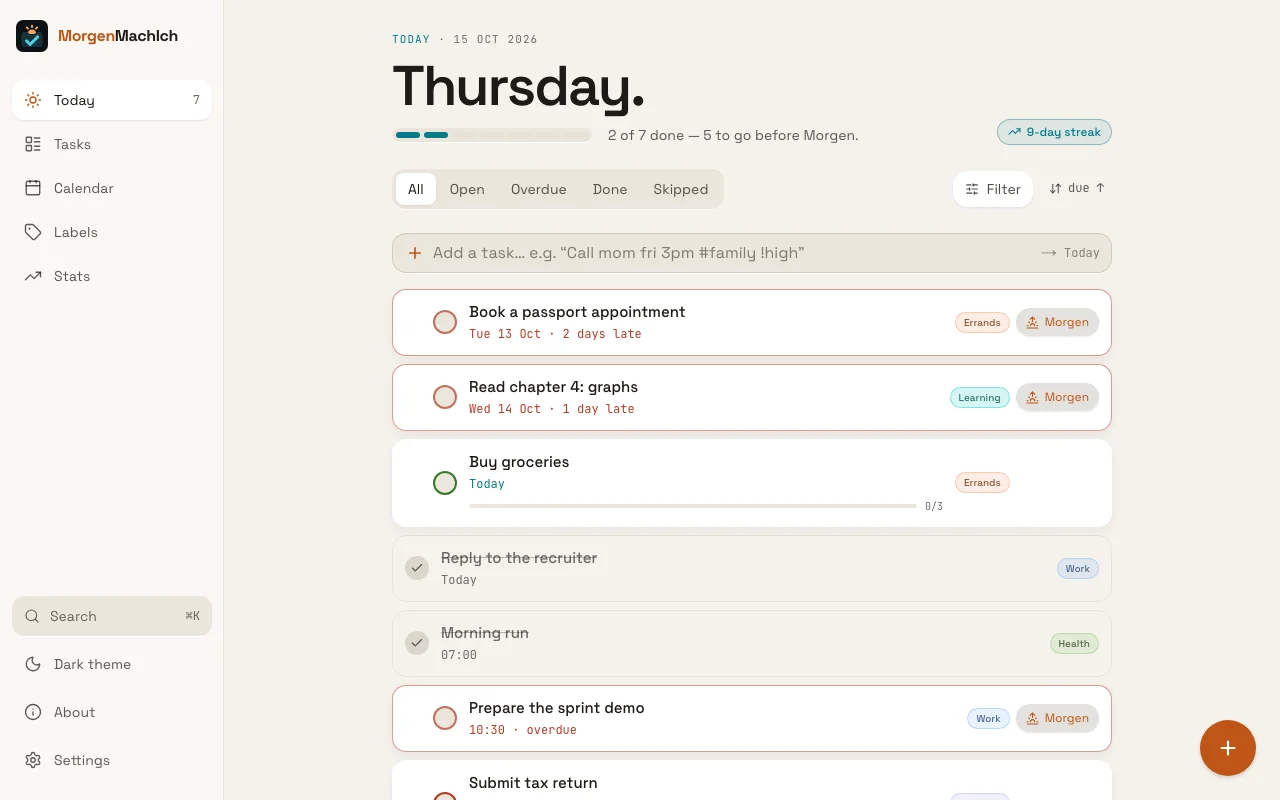
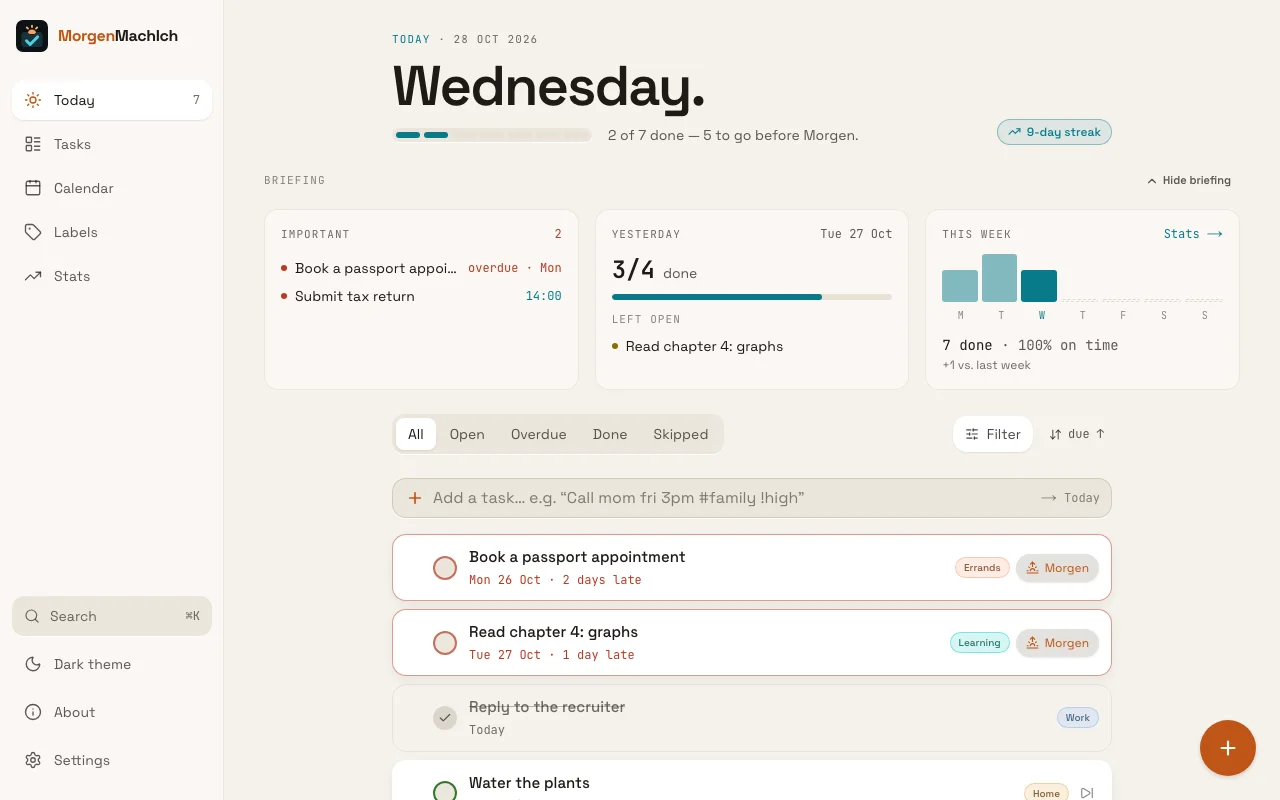
docs: sync PLANNING, README and site after Today Dashboard phase 1 (#443)
* docs: sync PLANNING and README after Today Dashboard phase 1

PLANNING: decision entries for the health check (#305), the Today
Dashboard phase 1 (#419) and projects as a future direction (#435);
backlog sections for both epics, #440 in the ideas, #305 marked done and
#311 / #314 sorted out. README: Today briefing in the status list, 850+
tests, updated in-progress and planned lines.

* chore(site): update stats and screenshots

Landing-page numbers: 23 epics, 270+ issues, 170+ pull requests, 850+
tests. Screenshots and the Open Graph image regenerated, so /today shows
the new briefing.

---------

diff --git a/features/site/lib/stats.ts b/features/site/lib/stats.ts
@@ -1,12 +1,12 @@
 /**
  * The numbers row of "How it's built" (#375). Update these at every docs
  * sync (see CONVENTIONS): rounded down with a "+", so they stay true
- * between updates. Last updated 2026-10-17 (after #308 and #396).
+ * between updates. Last updated 2026-10-28 (after the Today Dashboard phase 1, #419).
  */
 export const SITE_STATS: { value: string; label: string }[] = [
-  { value: "21", label: "epics" },
-  { value: "250+", label: "issues" },
-  { value: "160+", label: "pull requests" },
-  { value: "780+", label: "tests" },
+  { value: "23", label: "epics" },
+  { value: "270+", label: "issues" },
+  { value: "170+", label: "pull requests" },
+  { value: "850+", label: "tests" },
   { value: "4", label: "time zones in CI" },
 ];

diff --git a/docs/PLANNING.md b/docs/PLANNING.md
@@ -51,6 +51,9 @@
 - Hosted database — schema (#307, 2026-10-16; first migration `server/db/migrations/0000_init.sql`, applied to the Neon `dev` branch only): tables `labels`, `task_series`, `tasks`, `subtasks`, `task_labels`, `series_labels`, `app_settings` in schema `public`; Drizzle never touches `neon_auth`, but every owned row references `neon_auth.user(id) on delete cascade`, so deleting an account removes its data (#330). **Labels** as join tables (both FKs cascade) instead of an array column — the database keeps links valid and replaces the manual cleanup in `deleteLabel()`; the API still returns `labelIds`. **Subtasks** in their own table (`sort_order` fractional key) — 1:1 with today's feature; "subtasks as tasks" (`tasks.parent_id`, due dates, converting) is idea #400. A series' `subtask_template` and `recurrence` stay `jsonb` (copied/validated, never queried by column). Ids `uuid`; timestamps `timestamptz`; `occurrence_date date` with a **unique (`series_id`, `occurrence_date`)** index — a soft-deleted occurrence keeps its slot, so the server-side generator (#312) never recreates it (the per-occurrence delete deferred in #148). Soft delete (`deleted_at`) and `source` (`ui`/`n8n`/`claude`/`import`, set by the server) on labels, series and tasks; `sort_order text COLLATE "C"` (#75); `app_settings` is one row per user with `stats_since` and the user's IANA `time_zone`. **No drizzle-zod:** rows and API objects differ on purpose (join tables, nested subtasks, `Date` vs ISO strings, hidden columns), so `lib/types` stays the single source of truth for the API, backups and OpenAPI, and tested mappers in the service layer (#308) convert; `server/db/schema.test.ts` fails when a Zod field has no column.
 - Hosted database — service layer (done, #308 via #404 PR #409, #405 PR #410, #406 PR #411, #312 PR #413, #407 PR #414, #408 PR #415; tested against PGlite, no route uses it yet): `server/services/` is the server-side twin of `lib/db` — a route builds `services({ db, userId, source })` per request and gets the same function names and arguments, so the Route Handlers (#310) and the client migration (#311) don't need new shapes. **User scope:** every query filters by `userId`; ids in a request (labels on a task, a series) must belong to the same user (`ForbiddenError` 403), another user's record looks exactly like a missing one (`NotFoundError` 404); malformed ids are treated as missing (`isUuid`) and never reach Postgres. `userId` and `source` come from the session or API key, never from the body. **Validation:** inputs through the `lib/types` Zod schemas (`ValidationError` 422 with issue paths), rows mapped back (`mappers.ts`) and validated with `parseRows`, which skips invalid rows with a warning — the same rule as the Dexie layer. **Server-owned fields:** `id`, `createdAt`, `updatedAt`, `source` and a task's `completedAt` (set when it becomes done). **Soft delete** (`deleted_at`, so `updatedSince` can report deletions): it doesn't fire the database cascade, so services remove link rows themselves; `deleteAllData` is the one hard delete and keeps the settings row with the time zone. **Concurrency:** rules the schema can't express — label names unique per user (#405, via `normalizeLabelName`) and Backlog order keys (#406) — take a per-user **advisory lock** (`lockUserScope`) at the start of the transaction, so parallel requests queue instead of racing; everything that writes more than one table runs in `db.transaction`. **Occurrences on the server (#312):** the browser's `OccurrenceSync` would create duplicates against a shared database and Render runs in UTC, so generation moved to the server in the **user's time zone** (`AppSettings.timeZone`, IANA; pure `planOccurrences` in `lib/domain/occurrencePlan.ts`, `@date-fns/tz` only at the edges, "floating" local days so DST never shifts a date). It runs after series writes and lazily in `getTasks`, at most once per local day (`app_settings.occurrences_generated_on`). Inserts use `on conflict do nothing` on the unique `(series_id, occurrence_date)` — a deleted occurrence stays as a **tombstone** and is never recreated, which also fixes the old "deleting one occurrence doesn't stick" limitation (#148). **Series edits (#407)** regenerate **in place**: open today-or-later occurrences keep their id, subtasks/labels reset only when the template changed, dates the new rule drops are soft-deleted and tombstones on dates it contains again are restored. **Backup (#408):** export stays format v3; import replaces everything in one transaction and gives every row a **fresh uuid** (all references rewritten through one id map), so the public demo file with fixed ids works for any number of accounts; one occurrence per series and day survives. **Tests:** PGlite (Postgres compiled to WASM) per test file with the real migrations and a `neon_auth.user` stand-in; `server-only` is aliased to a stub in Vitest. 778 tests after the epic step.
 - Hosting in Frankfurt with a custom domain (done, #396, PR #416; plan in `claude/frankfurt-domain-plan.md`): the database runs in Neon Frankfurt, so a Render service in Oregon would add ~150 ms per query and send EU user data across the Atlantic (GDPR, #330). Render can't move a service between regions, so the URL had to change anyway — the app now has its own domain **`morgenmachich.de`** (registered at INWX), stable for future moves, the second brain (#300) and a possible product. **Render:** a new workspace "MorgenMachIch" (separate from the course projects, own 2 included custom domains) with the service `morgenmachich` in `region: frankfurt`, created from `render.yaml` as a Blueprint; Node raised to 22.23.3 (`engines` ≥ 22.22.2 for jsdom); `NEXT_PUBLIC_SITE_URL` and `CANONICAL_HOST` are `sync: false` dashboard values (the former is read at build time, so it had to exist before the first build); the Neon variables follow with #305. **DNS:** an **A record** for the root (an apex domain can't be a CNAME next to NS/SOA, and INWX has no ALIAS) and a CNAME `www` → the onrender address; Render issues TLS and redirects `www` → root. **One canonical host:** `proxy.ts` (Next 16's renamed middleware) sends every request on another host a **308** to the same path and query on `CANONICAL_HOST`; the host check is the pure `lib/utils/canonicalHost.ts` (`x-forwarded-host`, else `host`; case-insensitive; a malformed value disables the redirect instead of making browsers remember a wrong permanent redirect); no matcher, so static files redirect too; unset locally. The variable is set on both services, so the new onrender address and the old Oregon service (kept as a pure redirect for links on CV/LinkedIn, deleted around mid-November 2026) both lead to the domain. **Lessons:** the old service was managed by a Blueprint — renaming the service in `render.yaml` would have let that Blueprint act on it, so it was disconnected first (resources stay); and a `sync: false` variable only exists on services the Blueprint created, so the old service needed `CANONICAL_HOST` by hand. Local data is per origin, so it moved via export/import; the PWA was reinstalled. The privacy notice names Frankfurt (EU) as the server location.
+- Hosted database — health check (done, #305, PR #418): `GET /api/health` is pure liveness (version + commit, never touches the database) and is Render's `healthCheckPath`, so a database outage never restarts the app; `GET /api/health?db=1` runs `select 1` against Neon with a 5 s timeout and answers 200 or 503 — for curl, n8n and monitoring. Responses never contain error details (they go to the server log), and the route is exempt from the canonical-host redirect. Verified live 2026-10-17: the deployed server reaches Neon `production`.
+- Today Dashboard — phase 1 (done, epic #419: #421 PR #437, #422 PR #438, #423 PR #439, #424 PR #441, #425 PR #442; plan in `claude/dashboard-epic-plan.md`): /today becomes Niko's daily briefing, later also written by the agents of the second-brain system (Work Agent, Improvement Agent). **Layout:** one DOM order = the desktop order ("Skip to tasks" link → briefing band → task area), so Tab follows what you see on desktop; the band is a grid in its own `max-w-5xl` container (2 columns md, 3 lg, cards auto-placed so a missing widget leaves no gap); below md the band is `display: contents` and CSS `order` puts the task area right after Important. **Collapse** (desktop only): stored in localStorage `morgenmachich:briefing-collapsed` and on `<html data-briefing>`, applied by an inline head script before the first paint (like the theme) and read by a `briefing-collapsed` CSS variant — no React state, no flash; collapsed = one summary line ("2 important · yesterday 4/6"). The band is hidden while another Coming up day is selected. **Charts:** shared hand-built primitives in `components/ui/charts/` (`Sparkline`: stretched SVG with non-scaling strokes and an HTML dot that stays round; `MiniBars`: flex bars, dashed stub for future slots, optional labels) with pure math in `lib/charts/`; static, one accessible name each. **Widgets** (pure helpers in `features/dashboard/lib`, `now` passed in): _Important_ = open high-priority tasks due today or on an earlier day (earlier days first, "overdue · Tue"), items are a union so agent entries and calendar events plug in later, one line on mobile when empty; _Yesterday_ reuses `dayProgress` (done = status done, also when finished later, so it matches /tasks), lists up to three tasks left open (each opens the drawer); _This week_ builds on the /stats helpers with the stats start date applied — completions per day Mon–Sun, on-time rate over Monday until now, "+3 vs. last week" over the same span. No placeholders for phase 2 widgets in the live app.
+- Future direction — projects (idea, epic #435, plan issue #436, added 2026-10-27): group tasks into projects, each with its own backlog of tasks with subtasks. Not planned yet; open questions (project vs. label, shared vs. per-project backlog, pages and quick-add syntax, relation to #400) are in `claude/projects-epic-plan.md`. Suggested after the Hosted Database & API epic, so the schema changes once, on the server.
 - Future direction — automation & second brain (added after #168, updated 2026-10-12): the app becomes part of a "second brain" with Claude and Obsidian, and n8n agents automate around it. Both use the same `/api/v1` with machine API keys (read/write scopes, no delete for agent keys): n8n polls `updatedSince` and receives outgoing webhooks (task.completed / task.overdue); an MCP endpoint on top of the API serves Claude and n8n's AI agent node. The Obsidian/Claude workflow itself is still open. The rule stays: domain logic in pure functions (`lib/utils`), data formats versioned.
 - Future direction — feedback & admin (decided 2026-10-12, after Auth & Machine Access): **open sign-up** once login exists, with an admin (Niko) who can block and delete accounts. **Bug reports:** a "Report a bug" action stores the text plus automatic context (app version, page, browser, theme — never task content) in a `bug_reports` table; the admin area lists them with a status and can turn one into a GitHub issue with one click (the server holds the GitHub token; users never trigger GitHub directly). **Admin role:** checked in the Neon Auth spike (#306) — Better Auth's admin plugin (roles, list users, ban/unban, remove) if the managed version has it, otherwise an own `role` column and a ban check in `requireUser()`. The admin sees **non-sensitive data only** (email, sign-up date, last active, counts of tasks/series/labels) — no task titles, notes or labels. **Privacy (GDPR):** with other people's data the app needs an Impressum and a privacy policy, self-service export and account deletion (all rows, cascade), and data in an EU region — Neon region to be chosen in #304 (the Render service currently runs in Oregon; moving it to Frankfurt means a new service). Planned as the epic Feedback & Admin (backlog below).
 - Deployment & Ops — error pages (done, #177): `app/not-found.tsx` (terminal-style 404 with "Back to Today"), `app/error.tsx` (client boundary: friendly message, "Try again" via `reset`, "Go to Today", collapsed "Technical details" with message/digest, `console.error` in an effect) and `app/global-error.tsx` (fallback for root-layout failures; replaces the root layout, so it renders its own `<html>`/`<body>`, imports `globals.css`, and uses a plain `<a>` instead of `next/link` because a full page load is the safest exit when routing itself broke). All three share `StatusPage` (`components/ui/StatusPage.tsx`: large mono code in the accent color, title, one sentence, actions). `isStorageError()` (`lib/utils/isStorageError.ts`, pure) recognises Dexie/IndexedDB failures (`OpenFailedError`, `DatabaseClosedError`, `MissingAPIError`, `QuotaExceededError`, `SecurityError`, `InvalidStateError`, `VersionError`, or an "IndexedDB" mention in the message) so a blocked-storage case (e.g. a private window) gets a targeted hint instead of a generic message — the one runtime failure this local-first app can realistically hit.
@@ -269,6 +272,7 @@ Task CRUD, card-view list, calendar view, labels + filtering, priority levels, s
 
 ### Backlog ideas (planned, not scheduled)
 
+- Drawer keyboard support (Escape, focus into the drawer and back) and the on-time ring's track color in the light theme — open (#440, found while building the dashboard)
 - Custom date field so the drawer shows English date formats instead of the browser-language native picker — done (#258, PR #296); recurrence end date + Plan for… picker done (#294, PR #336)
 - Plan my day with time blocks ("9–12 Working", "12–12:30 Break", "12:30–13 Fitness") — idea issue created, design open (own entity vs. tasks with start/end, timeline on /today vs. calendar day view, quick-add syntax, templates) (#256; builds on the planned date, #332)
 - Planned date: when you'll work on a task, separate from its due date (Things 3's "When" vs. "Deadline") — idea (#332). Today "Plan for…" sets a due date, so a task you only intend to do on Friday is overdue on Saturday; with a planned date, /today and Coming up show planned tasks and the due date stays the deadline. Open: data model + backup version, carry-over of missed plans, quick-add syntax (planned vs. due), calendar and stats
@@ -331,10 +335,23 @@ Task CRUD, card-view list, calendar view, labels + filtering, priority levels, s
 - Route Handlers `/api/v1`: tasks, series, labels, backup export/import (+ `updatedSince` filter), with the shared error contract — open (#310, after login #309)
 - Move recurrence generation (`generateOccurrences`) to the server — done (#312, PR #413)
 - Import existing local data via the versioned backup format — open (#313; the service side is done in #408)
-- Client migration: replace `useLiveQuery` in the 10 components with TanStack Query + optimistic updates; swap `lib/db` calls for the API; remove Dexie and `OccurrenceSync` — open (#311, #314)
-- Health-check endpoint (also configured in Render; exempt from the canonical-host redirect) — open (#305, next)
+- Client migration: replace `useLiveQuery` in the 10 components with TanStack Query + optimistic updates; swap `lib/db` calls for the API; remove Dexie and `OccurrenceSync` — open (#314)
+- Health-check endpoint (also configured in Render; exempt from the canonical-host redirect) — done (#305, PR #418)
 - Purge soft-deleted rows after a retention period — open (#412)
 - Order: setup → schema (after the Neon Auth spike) → service layer → routes (only behind auth) → server recurrence + import → client migration last
+
+### Epic: Today Dashboard (phase 1 done, epic #419; plan in `claude/dashboard-epic-plan.md`)
+
+- Dashboard foundation: feature folder, `DashboardCard`, hybrid Today layout, collapse without flash — done (#421, PR #437)
+- Shared chart primitives `Sparkline` and `MiniBars` (hand-built SVG / flex bars) — done (#422, PR #438)
+- Yesterday widget: done vs. due, tasks left open — done (#423, PR #439)
+- Important widget: open high-priority tasks due today or overdue — done (#424, PR #441)
+- This week widget: completions per day, on-time rate, comparison with last week — done (#425, PR #442)
+- Phase 2 (needs login #309, the API #310 and API keys #315): dashboard entries API + agent entries in the widgets incl. "Learn today" (#426, #427), Apple Health metrics + privacy + iOS Shortcut + Body widget (#428–#431), workouts + log form + Training widget (#432–#434) — open
+
+### Epic: Projects (idea, epic #435)
+
+- Plan the epic: decisions, mockup, schema draft, sub-issues — open (#436); building waits for #298
 
 ### Epic: Auth & Machine Access (future)
 
@@ -342,7 +359,7 @@ Task CRUD, card-view list, calendar view, labels + filtering, priority levels, s
 - Login UI + route protection (Next 16 proxy) + protected API
 - API keys for machines: hashed, scopes (read / write, no delete for agent keys), revocable
 - Idempotency keys on POST
-- OpenAPI spec generated from the Zod schemas (the error contract itself is defined with the routes)
+- OpenAPI spec generated from the Zod schemas (the error contract itself is defined with the routes) (#311)
 
 ### Epic: Automation & Second Brain (future — n8n, Claude + Obsidian)
 

diff --git a/README.md b/README.md
@@ -160,6 +160,7 @@ Built epic by epic — every decision is recorded in [PLANNING.md](./docs/PLANNI
 
 - **Tasks & labels:** create/edit/delete in a drawer, subtasks with progress, priorities, colour labels, filters and sorting; a Backlog for tasks without a date, with "Plan for…"
 - **Views:** /today with an editorial header, day progress and a week preview; /tasks with Tasks, Recurring and Backlog columns; a /calendar month view with projected future occurrences
+- **Today briefing:** Important (urgent high-priority tasks), Yesterday (done vs. due, what was left open) and This week (completions per day, on-time rate, comparison with last week) above the task list — collapsible on desktop, stacked around the tasks on mobile
 - **Recurring tasks:** daily/weekly/monthly rules (incl. "first Monday"), independent occurrences, pause, edit, three ways to delete a series
 - **Natural-language quick-add** (English + German): `Call mom fri 3pm #family !high` or `Gym every mon and thu 6pm until 31 Dec` — live-coloured tokens, ignorable chips, new labels from unknown `#tags`
 - **Command palette** (⌘K / Ctrl+K, no library): fuzzy search, page jumps, actions
@@ -168,10 +169,10 @@ Built epic by epic — every decision is recorded in [PLANNING.md](./docs/PLANNI
 - **Design:** own look ("Dawn Tactile" dark / "Dawn Paper" light, System / Light / Dark), keyboard-correct controls, custom date field
 - **PWA:** installable, own logo, offline app shell, update toast
 - **Landing page** with a live quick-add demo, generated screenshots, Open Graph image, Impressum and privacy notice
-- **Quality:** 780+ Vitest tests in four time zones, Prettier, ESLint layer rules, CI on every pull request
+- **Quality:** 850+ Vitest tests in four time zones, Prettier, ESLint layer rules, CI on every pull request
 - **Server layer** (not wired to the UI yet): Neon Postgres in Frankfurt, Drizzle schema and migrations, a user-scoped service layer with server-side recurrence, tested against PGlite
 - **Hosting:** Render in Frankfurt on [morgenmachich.de](https://morgenmachich.de)
 
-**In progress:** Hosted Database & API (#298) — health check, login with Neon Auth (#299), `/api/v1` routes, then the app moves from browser storage (IndexedDB) to the database.
+**In progress:** Hosted Database & API (#298) — login with Neon Auth (#299), `/api/v1` routes, then the app moves from browser storage (IndexedDB) to the database. Today Dashboard phase 2 (#419): entries written by agents, Apple Health and training data.
 
-**Planned:** automation and a "second brain" with n8n and Claude/Obsidian (#300), feedback & admin (#323).
+**Planned:** automation and a "second brain" with n8n and Claude/Obsidian (#300), feedback & admin (#323), projects with their own backlog (#435).
